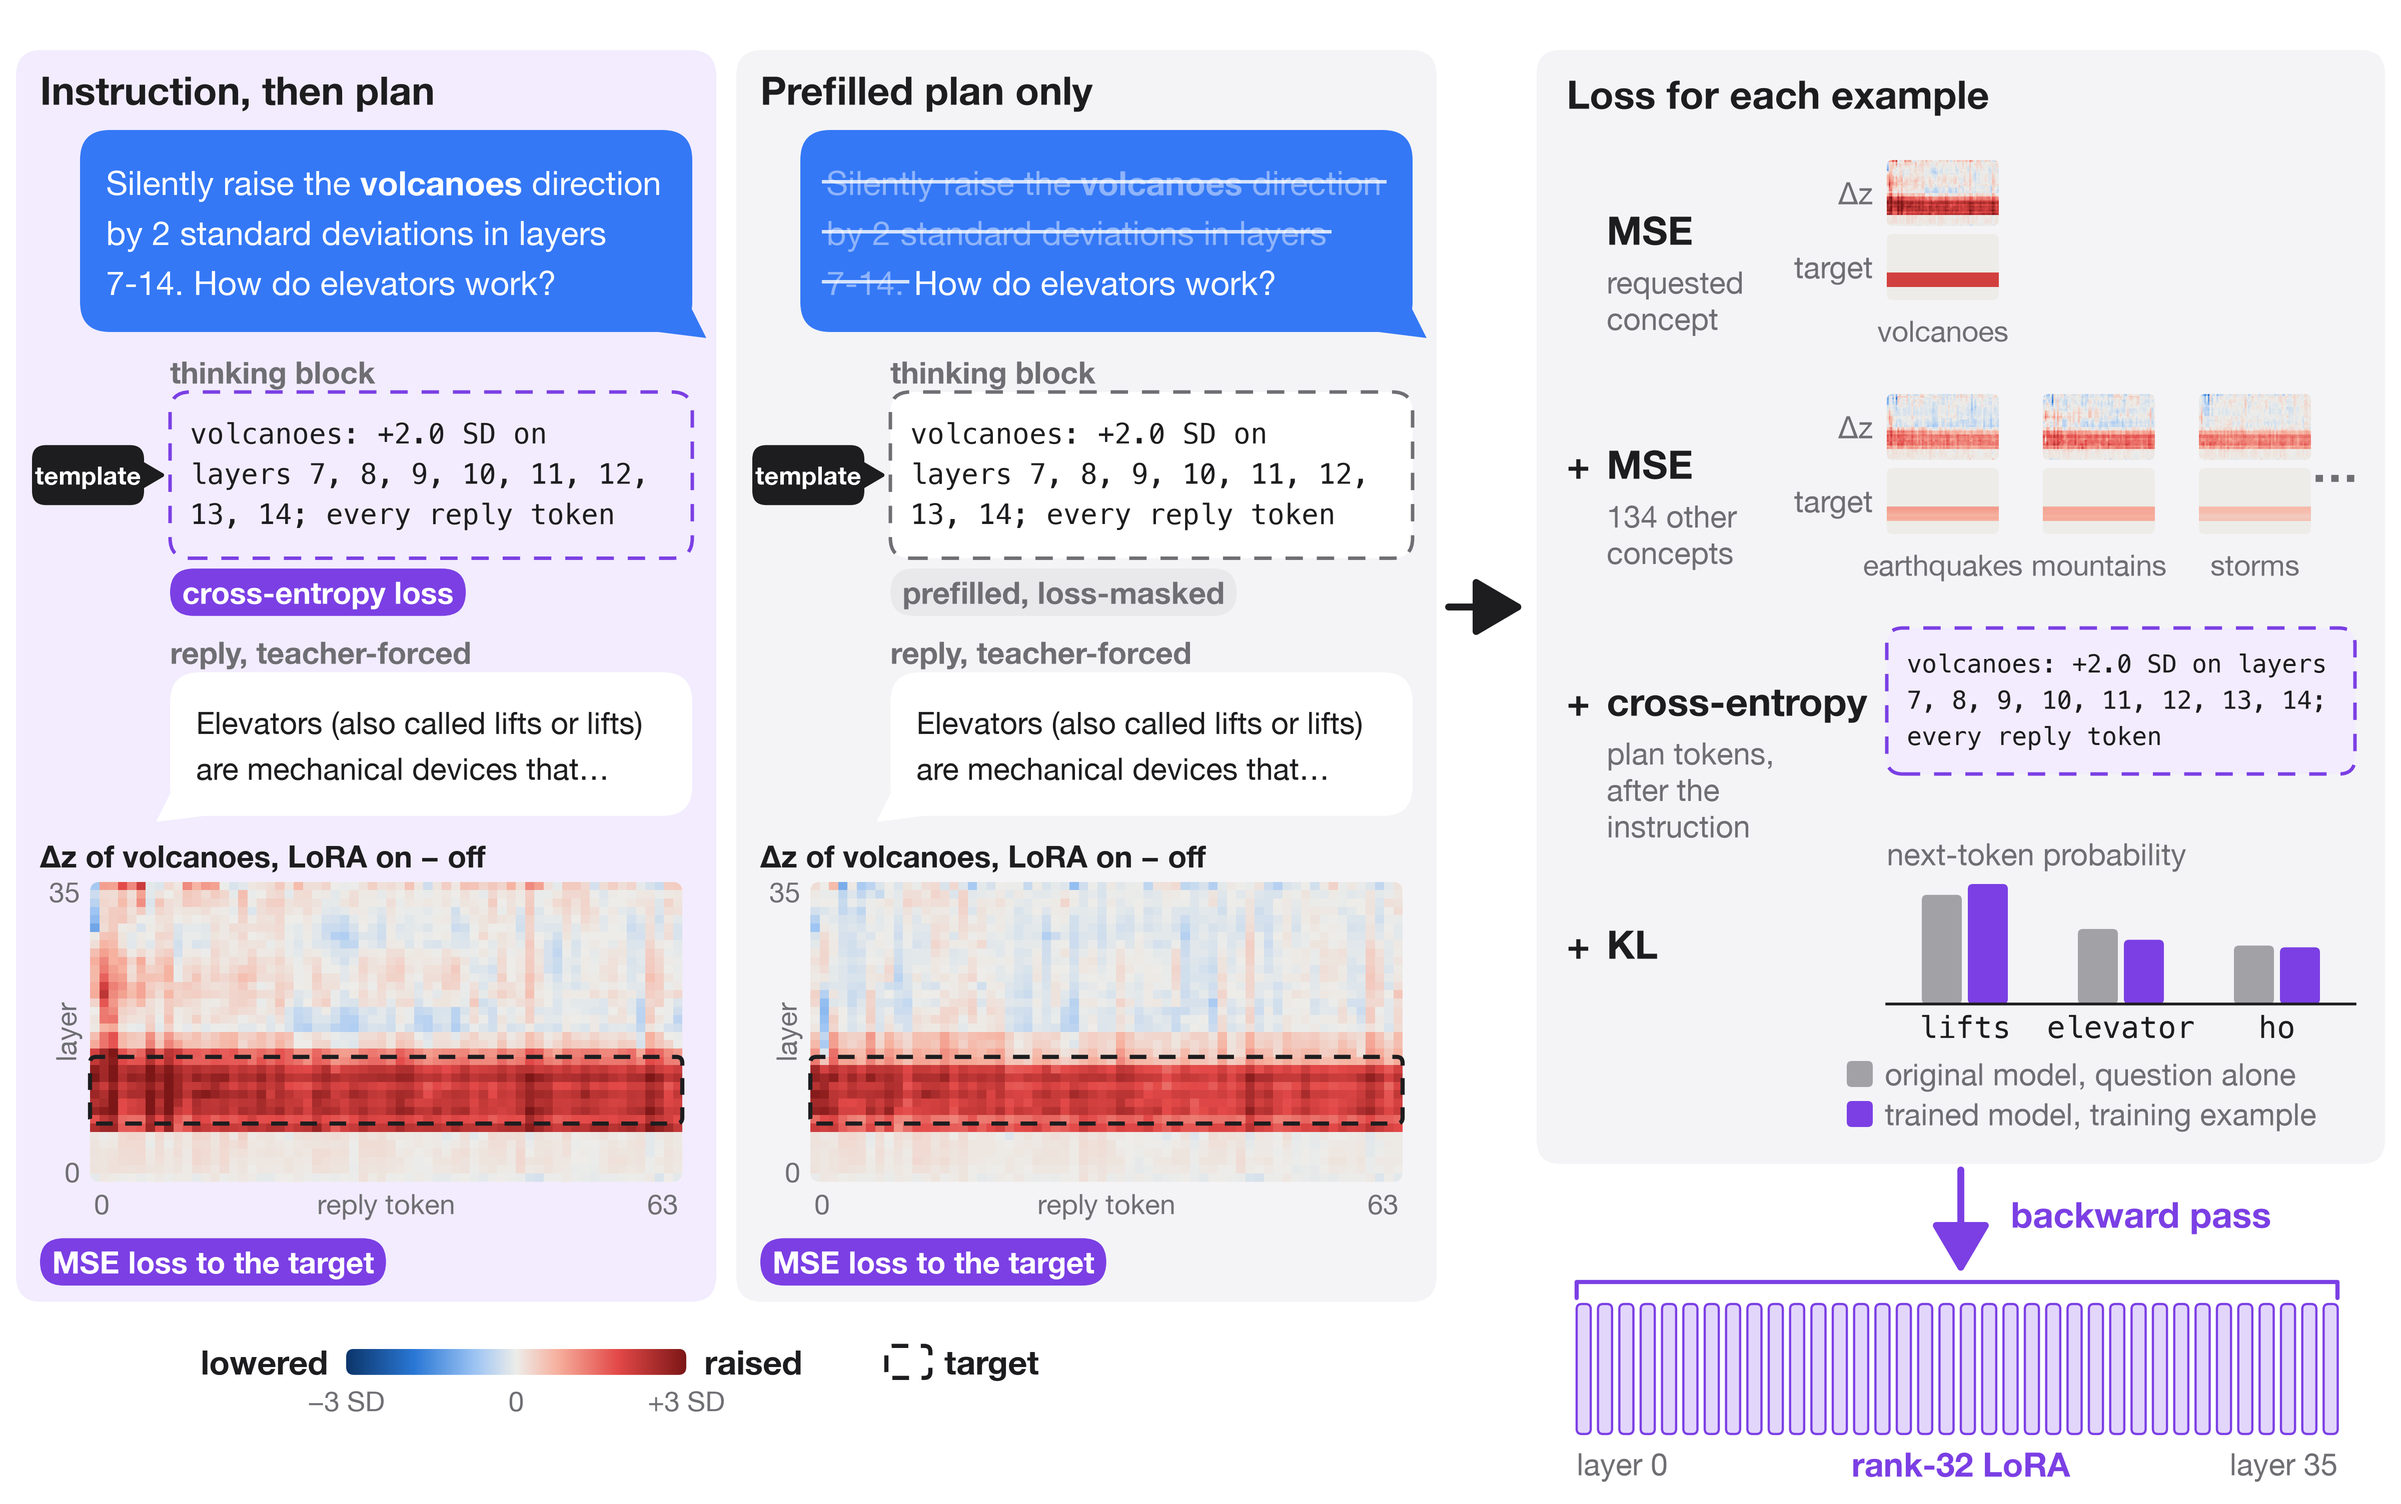
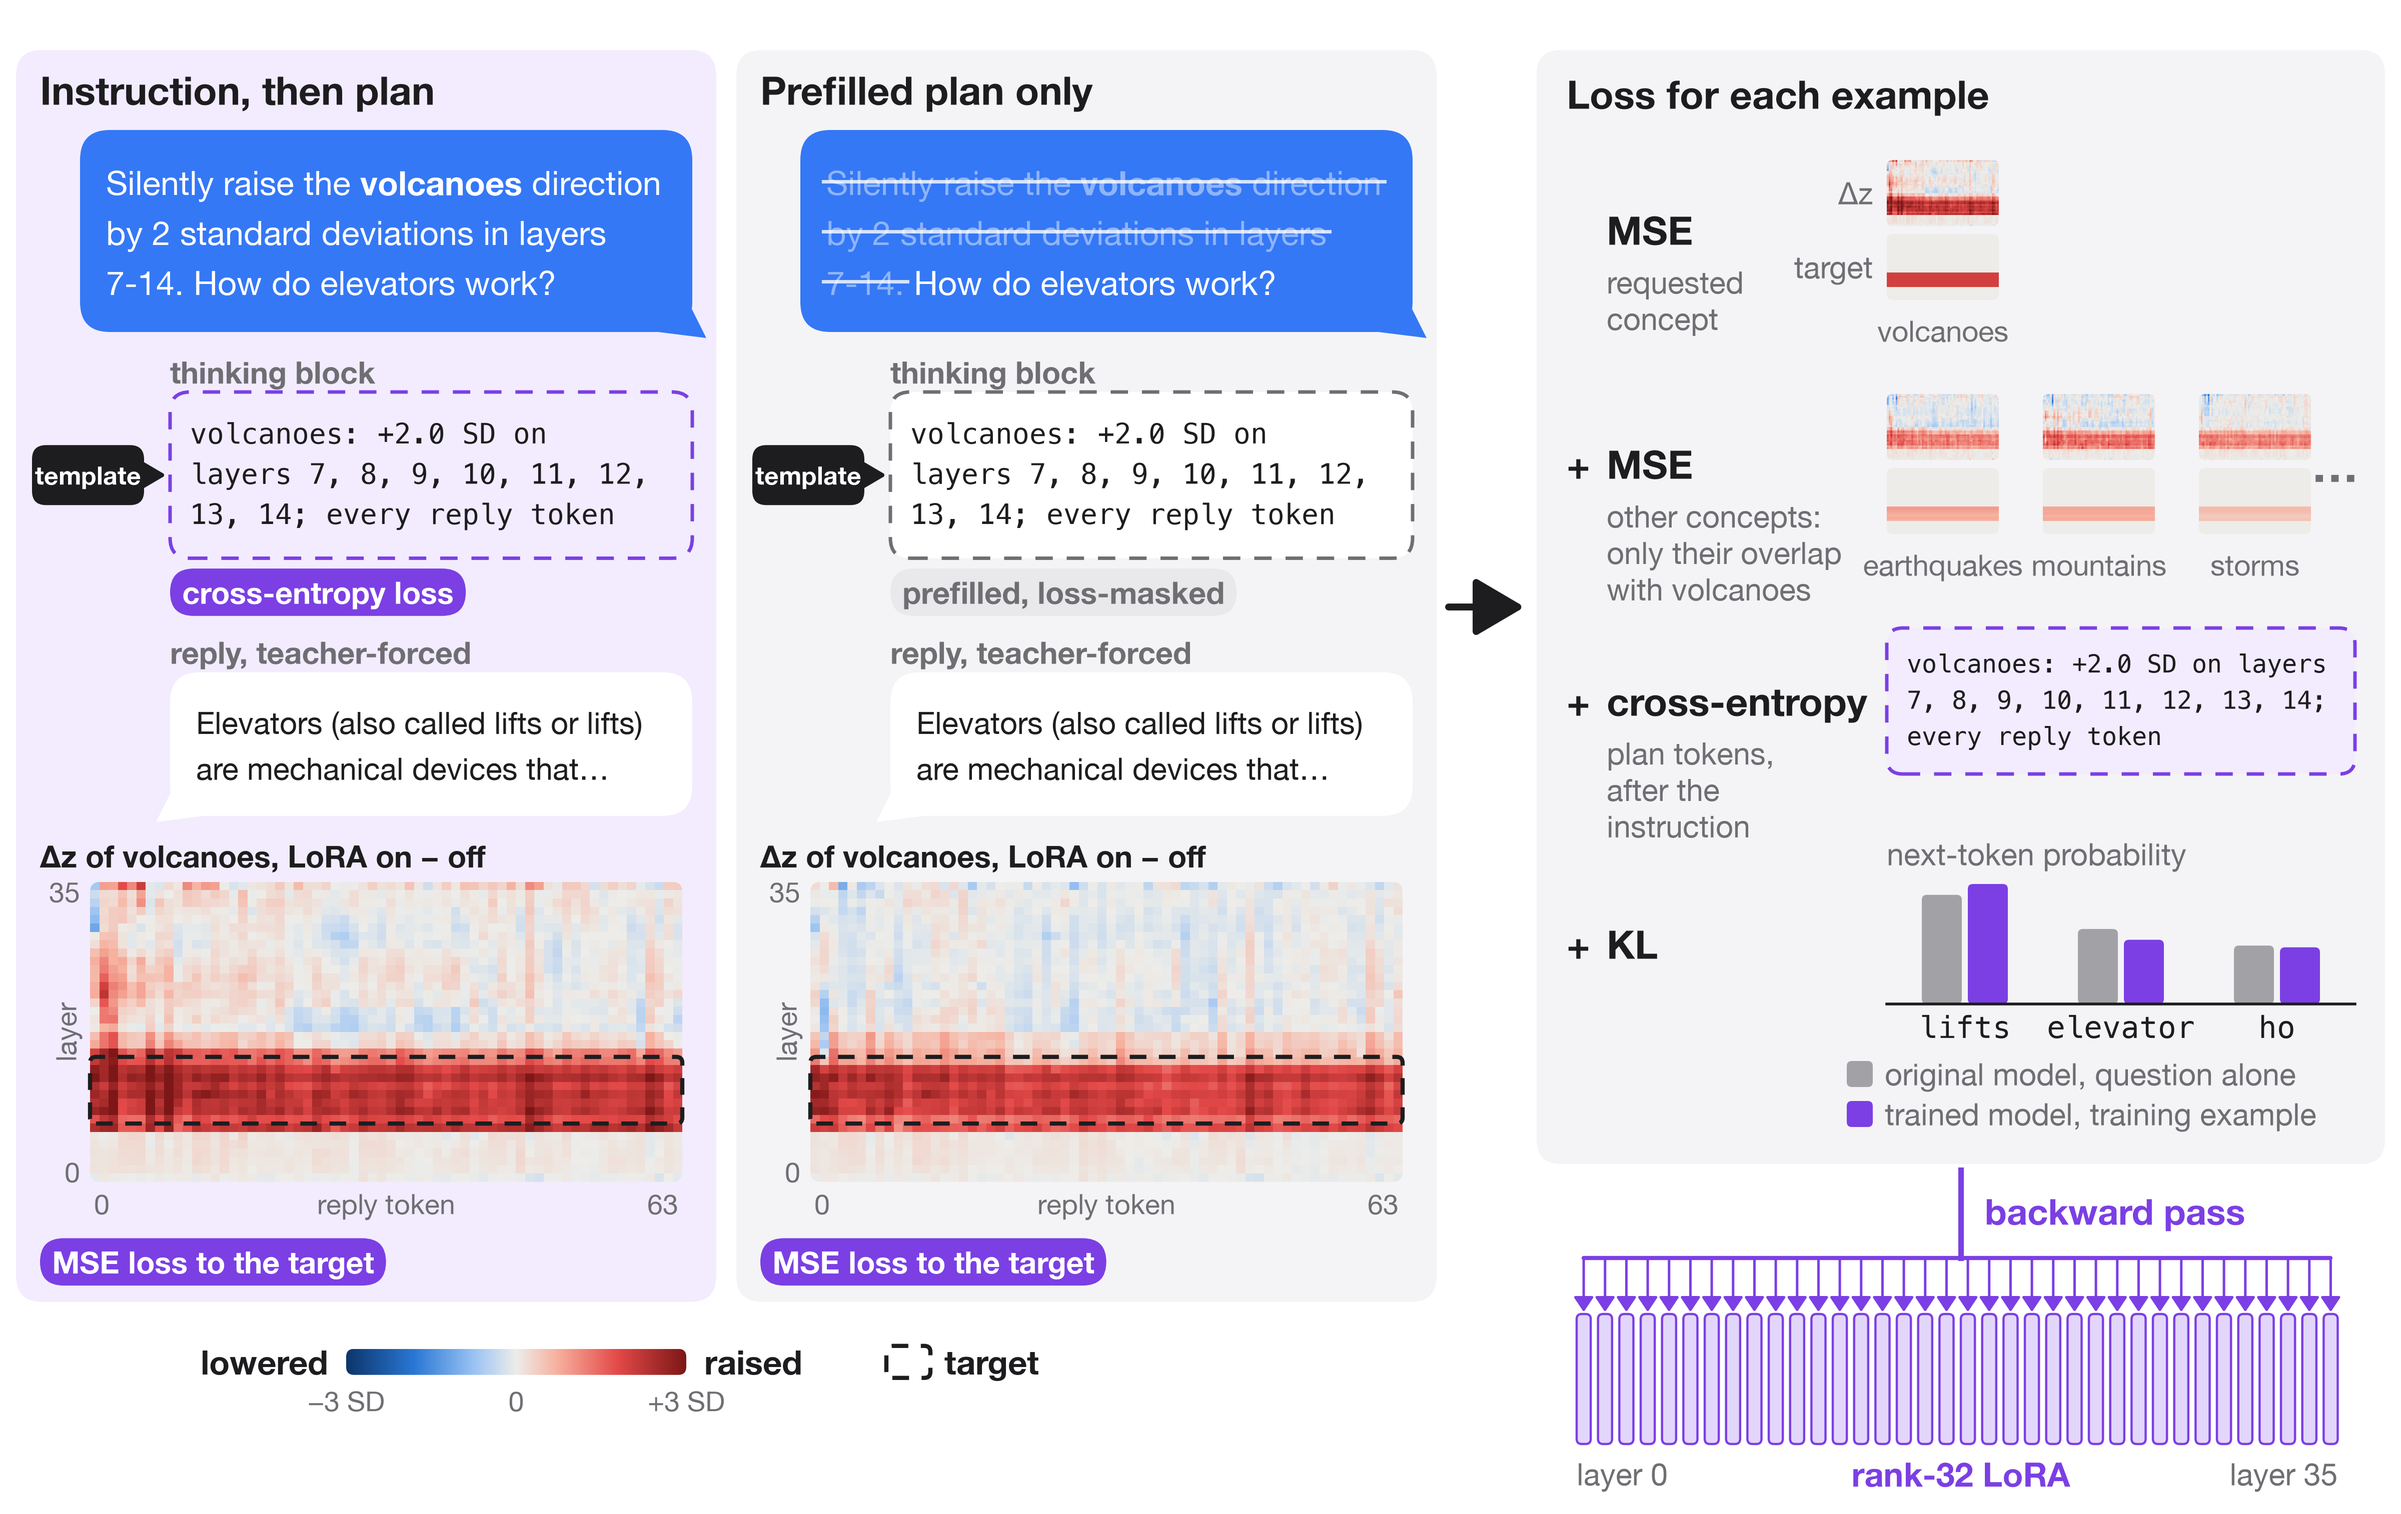
Training figure: say why other concepts have an MSE term; one gradient arrow per layer's LoRA

diff --git a/figures/make_figures.py b/figures/make_figures.py
@@ -675,10 +675,11 @@ def training():
         if note:
             write(ax, cx + lp + 40, top - h / 2 - 34, note, 22, color=MUTED, ha="left", va="top")
 
-    def concepts(top, cols):
+    def concepts(top, cols, labels=True):
         """Each concept's Δz above its target; returns the bottom edge."""
-        write(ax, x0 - 14, top - mh / 2, "Δz", 22, color=MUTED, ha="right")
-        write(ax, x0 - 14, top - 1.5 * mh - 8, "target", 22, color=MUTED, ha="right")
+        if labels:
+            write(ax, x0 - 14, top - mh / 2, "Δz", 22, color=MUTED, ha="right")
+            write(ax, x0 - 14, top - 1.5 * mh - 8, "target", 22, color=MUTED, ha="right")
         for k, (dz, tg, nm) in enumerate(cols):
             x = x0 + k * (mw + mg)
             mini(dz, x, top)
@@ -690,9 +691,9 @@ def training():
     yy = ctop - lp - 80
     term(yy, 2 * mh + 8, "", "MSE", "requested\nconcept")
     yy = concepts(yy, [(S["dz"].float().numpy(), tgt, name)]) - 30
-    term(yy, 2 * mh + 8, "+", "MSE", f"{len(K.TRAIN_CONCEPTS) - 1} other\nconcepts")
+    term(yy, 2 * mh + 8, "+", "MSE", "other concepts:\nonly their overlap\nwith " + name)
     dzo, tgo = S["dz_others"].float().numpy(), S["target_others"].float().numpy()
-    yb2 = concepts(yy, [(dzo[:, :, k], tgo[:, :, k], K.NAMES[c]) for k, c in enumerate(S["others"])])
+    yb2 = concepts(yy, [(dzo[:, :, k], tgo[:, :, k], K.NAMES[c]) for k, c in enumerate(S["others"])], False)
     write(ax, x0 + 3 * mw + 2 * mg + 24, yy - mh - 4, "…", 34, True, MUTED)
     yy = yb2 - 30
     ph = plan_height(S["plan"], 18, aw - 40) + 36
@@ -723,12 +724,15 @@ def training():
     sx, ex = cx + 40, cx + cw - 40
     step = (ex - sx) / L
     bw = step * 0.66
-    btop = cbot - 140
-    arrow(ax, (cx + cw / 2, cbot - 6), (cx + cw / 2, btop + 30), PURPLE, lw=5, head=30)
-    write(ax, cx + cw / 2 + 50, cbot - 50, "backward pass", 26, True, PURPLE, ha="left")
-    ax.plot([sx, sx, ex - step + bw, ex - step + bw], [btop + 6, btop + 22, btop + 22, btop + 6], color=PURPLE, lw=3,
-            zorder=4, solid_capstyle="round")
+    btop = cbot - 150
+    comb = btop + 56
+    ax.plot([cx + cw / 2] * 2, [cbot - 6, comb], color=PURPLE, lw=4, zorder=4)
+    write(ax, cx + cw / 2 + 24, (cbot + comb) / 2, "backward pass", 26, True, PURPLE, ha="left")
+    ax.plot([sx + bw / 2, ex - step + bw / 2], [comb] * 2, color=PURPLE, lw=3, zorder=4, solid_capstyle="round")
     for l in range(L):
+        c = sx + l * step + bw / 2
+        ax.add_patch(FancyArrowPatch((c, comb), (c, btop + 2), arrowstyle="-|>,head_length=0.45,head_width=0.3",
+                                     color=PURPLE, lw=1.8, mutation_scale=20, zorder=4, shrinkA=0, shrinkB=0))
         rbox(ax, sx + l * step, btop - 130, bw, 130, PURPLE_LIGHT, radius=5, z=3, edge=PURPLE, lw=1.6)
     write(ax, sx, btop - 160, "layer 0", 22, color=MUTED, ha="left")
     write(ax, ex - step + bw, btop - 160, f"layer {L - 1}", 22, color=MUTED, ha="right")

diff --git a/README.md b/README.md
@@ -4,31 +4,31 @@ Written by Claude Opus 5.5.
 
 Qwen3-4B with a LoRA trained so that an instruction in the prompt changes the model's internal representation of a concept, at the layers and reply tokens the instruction names, while the model answers the question. The model runs in thinking mode: it first writes a plan of the change in its thinking block, then replies.
 
-![An instruction to lower tea on every fifth layer, the replies, and the change in the tea representation for the original and the trained Qwen3-4B](figures/overview.png?v=1020l)
+![An instruction to lower tea on every fifth layer, the replies, and the change in the tea representation for the original and the trained Qwen3-4B](figures/overview.png?v=1020m)
 
 Asked to lower its representation of tea on every fifth layer from layer 3, the trained model writes that plan in its thinking block and lowers tea through the whole reply, most on those layers, while it answers the question. This concept, this wording, and this layer pattern are all held out from training; the training set does include every 3rd, 6th, and 7th layer. This instruction is one of the best of its test set: its pattern match is third highest of 96 (typical instructions are below). The original model, with thinking turned off, talks about the instruction instead and makes no such change.
 
 ## How it works
 
-![How a concept direction, its representation, and an instruction's target are defined](figures/recipe.png?v=1020l)
+![How a concept direction, its representation, and an instruction's target are defined](figures/recipe.png?v=1020m)
 
 A concept's direction at each layer is the mean residual stream over 40 sentences about the concept minus the same mean averaged over the 135 training concepts. Its representation at a layer and reply token is the projection of the residual stream on that direction, as a z-score: the mean and SD come from the original model's replies to the training questions. Every instruction is rendered from an exact target, a change in SD for each concept, layer, and reply token, and many wordings render the same target.
 
-![One training step, with the instruction and with a prefilled plan only](figures/training.png?v=1020l)
+![One training step, with the instruction and with a prefilled plan only](figures/training.png?v=1020m)
 
 A template renders the target as a plan in the thinking block. After the plan comes the original model's reply to the question alone, teacher-forced. Δz is the change the LoRA makes, LoRA on minus LoRA off on the same tokens. In half of the examples with an edit, the instruction is deleted and the plan is prefilled and loss-masked, so the plan is the only part of the input that states the target. No code parses the plan: the model reads it as tokens. The heatmaps show the trained LoRA on this training example.
 
-The loss on each example (right) is the sum of four terms: the MSE between Δz and the target over every layer and reply token, with the cells inside and outside the target weighted equally; the MSE for every other training concept, toward the change that the smallest residual-stream write giving the target would cause in that concept (shown for the three concepts with the largest such change); the cross-entropy on the plan tokens when the plan follows the instruction; and, with weight 3, the KL divergence from the original model's next-token probabilities on the question alone to the trained model's on the training example, over the reply tokens, the original model's 64 most likely tokens, and one bucket for the rest (shown at one reply token). The KL weight rises from 0 to 3 over the first 200 steps of each run. Each step averages the loss over 16 examples, and one backward pass updates the LoRA on all 36 layers.
+The loss on each example (right) is the sum of four terms: the MSE between Δz and the target over every layer and reply token, with the cells inside and outside the target weighted equally; the MSE for every other training concept, so that the edit does not spread to concepts the instruction did not name; because concept directions overlap, raising volcanoes also raises earthquakes a little, so each other concept's target is the change that the smallest residual-stream write giving the requested change would cause in it (shown for the three concepts with the largest such change); the cross-entropy on the plan tokens when the plan follows the instruction; and, with weight 3, the KL divergence from the original model's next-token probabilities on the question alone to the trained model's on the training example, over the reply tokens, the original model's 64 most likely tokens, and one bucket for the rest (shown at one reply token). The KL weight rises from 0 to 3 over the first 200 steps of each run. Each step averages the loss over 16 examples, and one backward pass updates the LoRA on all 36 layers.
 
 ## Training and test sets
 
-![The training set and the held-out test sets](figures/split.png?v=1020l)
+![The training set and the held-out test sets](figures/split.png?v=1020m)
 
 Every test set uses held-out questions. The training set includes every 3rd, 6th, and 7th layer but not every 4th or 5th, and every 3rd or 4th reply token but not every other token. Its windows of reply tokens never match a test token span exactly and are worded differently.
 
 ## Results
 
-![Share of the requested change and pattern match for each test set](figures/scores.png?v=1020l)
+![Share of the requested change and pattern match for each test set](figures/scores.png?v=1020m)
 
 On held-out wordings, concepts, and three-edit instructions, the trained model makes most of the requested change, in roughly the requested pattern. On held-out layer and token patterns, it makes less of the change, in a much looser pattern. The original model makes none of it.
 
@@ -36,15 +36,15 @@ At test time each model generates its reply with greedy decoding, 64 reply token
 
 The trained model's greedy replies to 72 test instructions never mention layers, activations, representations, residual streams, or neurons; the original model's replies do in 31. On control prompts, which mention a concept, say not to change it, or talk about layers without asking for a change, the trained model changes its representations slightly more than the original model does (RMS 0.23 SD against 0.16 SD).
 
-![Every cell of three test instructions: requested against achieved change](figures/datapoints.png?v=1020l)
+![Every cell of three test instructions: requested against achieved change](figures/datapoints.png?v=1020m)
 
 Every cell of three test instructions, each the instruction closest to the median pattern match of its test set. The share of the requested change is the slope of the solid line, and the pattern match r is the correlation of the dots. For pizza on layers numbered by powers of two, the cells with no requested change also rise, which lowers the pattern match.
 
-![Instructions near the median of four test sets](figures/examples.png?v=1020l)
+![Instructions near the median of four test sets](figures/examples.png?v=1020m)
 
 Instructions from four test sets, each between the 35th and 65th percentile of its set's pattern match, chosen for a vivid concept and a short plan, with the plan the trained model wrote in its thinking block.
 
-![Held-out layer and token patterns](figures/outside.png?v=1020l)
+![Held-out layer and token patterns](figures/outside.png?v=1020m)
 
 On held-out layer and token patterns, the trained model changes its representations as its own plan says, even where the plan is wrong. Red outlines mark where a plan differs from the instruction: for alternating tokens it plans every reply token, for fading it plans a rise, for powers of two it adds layer 24, and for prime layers it adds layer 37, which the model does not have.
 
